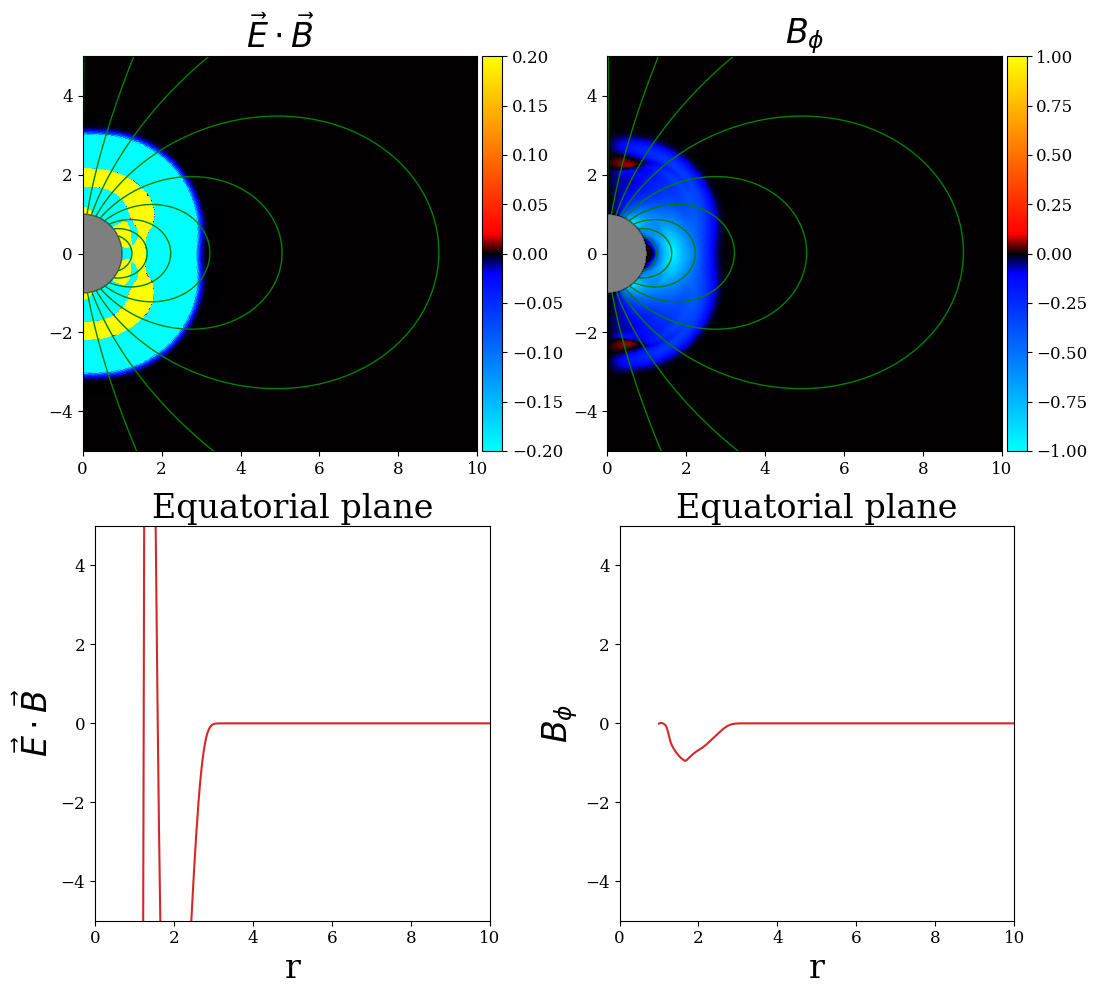
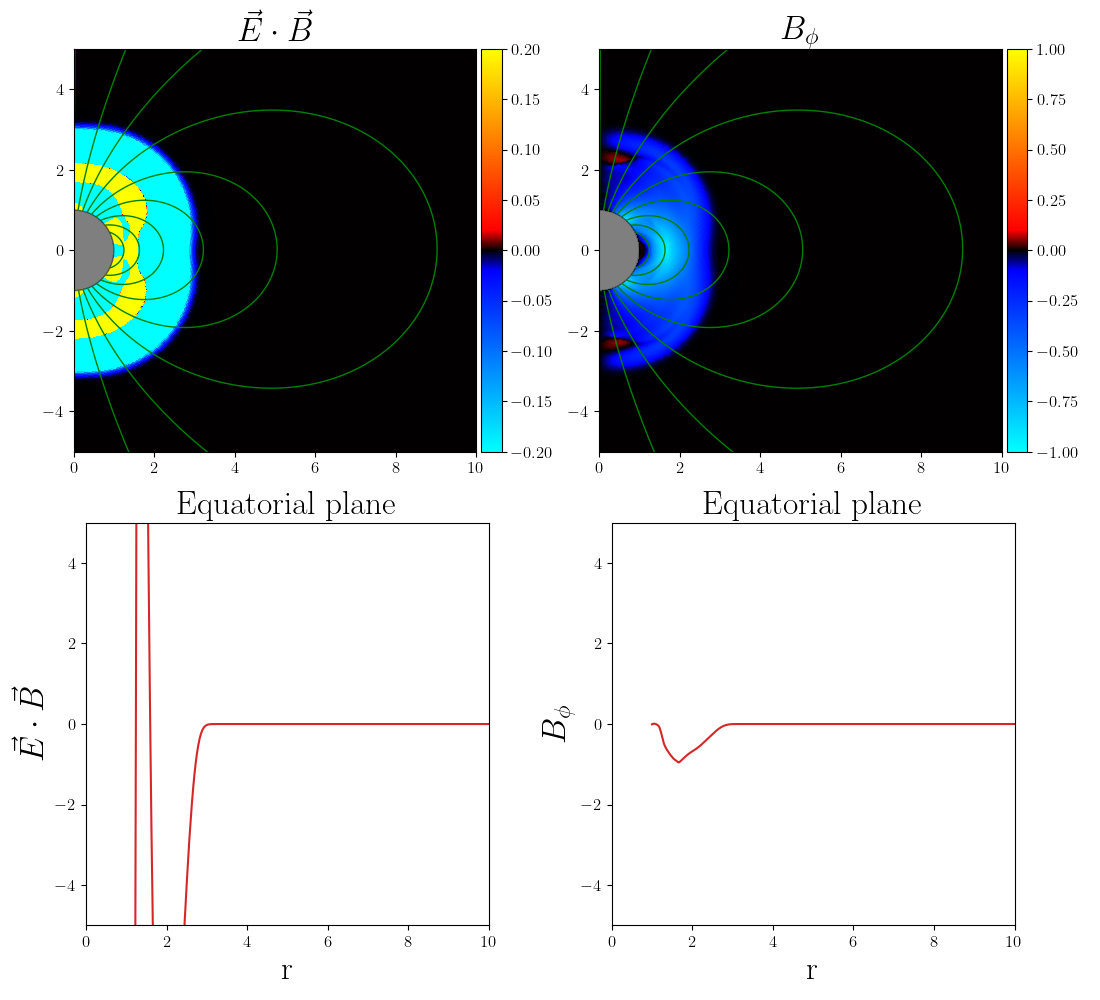
newest changes (I forgot the specifics)

diff --git a/plotting.py b/plotting.py
@@ -8,7 +8,6 @@ import numpy as np
 
 
 
-# matplotlib.rc("text", usetex=True)
 from IPython.display import display # for displaying figs without clearing them
 
 import inspect # for comparing arguments and parameters
@@ -33,6 +32,7 @@ from typing import Any #used in __setattr__ to allow any attribute type to be se
 from mpl_toolkits.axes_grid1 import make_axes_locatable # for colorbar
 from matplotlib.colors import LinearSegmentedColormap
 matplotlib.rc("font", family="serif")
+matplotlib.rc("text", usetex=True)
 
 cdata = {
     "red": [(0.0, 0.0, 0.0), (0.5, 0.0, 0.0), (0.55, 1.0, 1.0), (1.0, 1.0, 1.0),],

diff --git a/README.md b/README.md
@@ -7,7 +7,16 @@ You have do do a lot of from plotting import this or that and its easy to miss s
 
 I could specify the created constructor functions with tags, so they know what they are for. This would allow to not need apt_plot_types for example, but when creating a new one you need to remember to tag it.
 
+a second make_fig will delete anything you do directly to the afig.fig object. i.e afig.fig.set_size_inches will not pass through a second make_fig. This is because the fig object is deleted and recreated. through these changes, but it would be a lot of work and probably not worth it.
 
+add afig.add_colorplot wrappers
+
+call theta_const as lineout
+
+add colorbar as a plot option too
+default with colorplot
+
+I can totally refactor the construcor objects, the constructor just returns the different things it needs, then add_plot calls apt_plot.
 ## Example use case
 ```python
 import plotting
